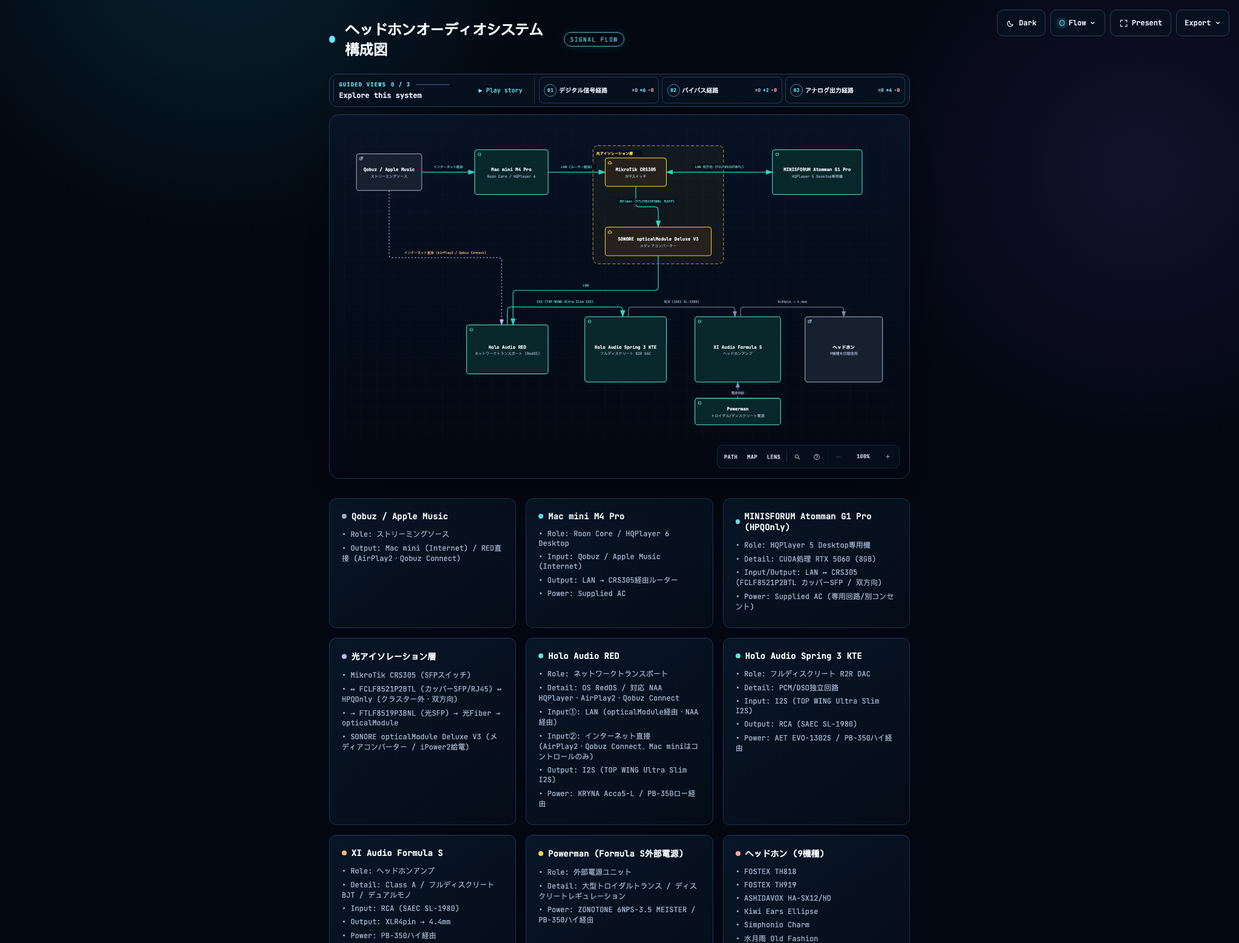
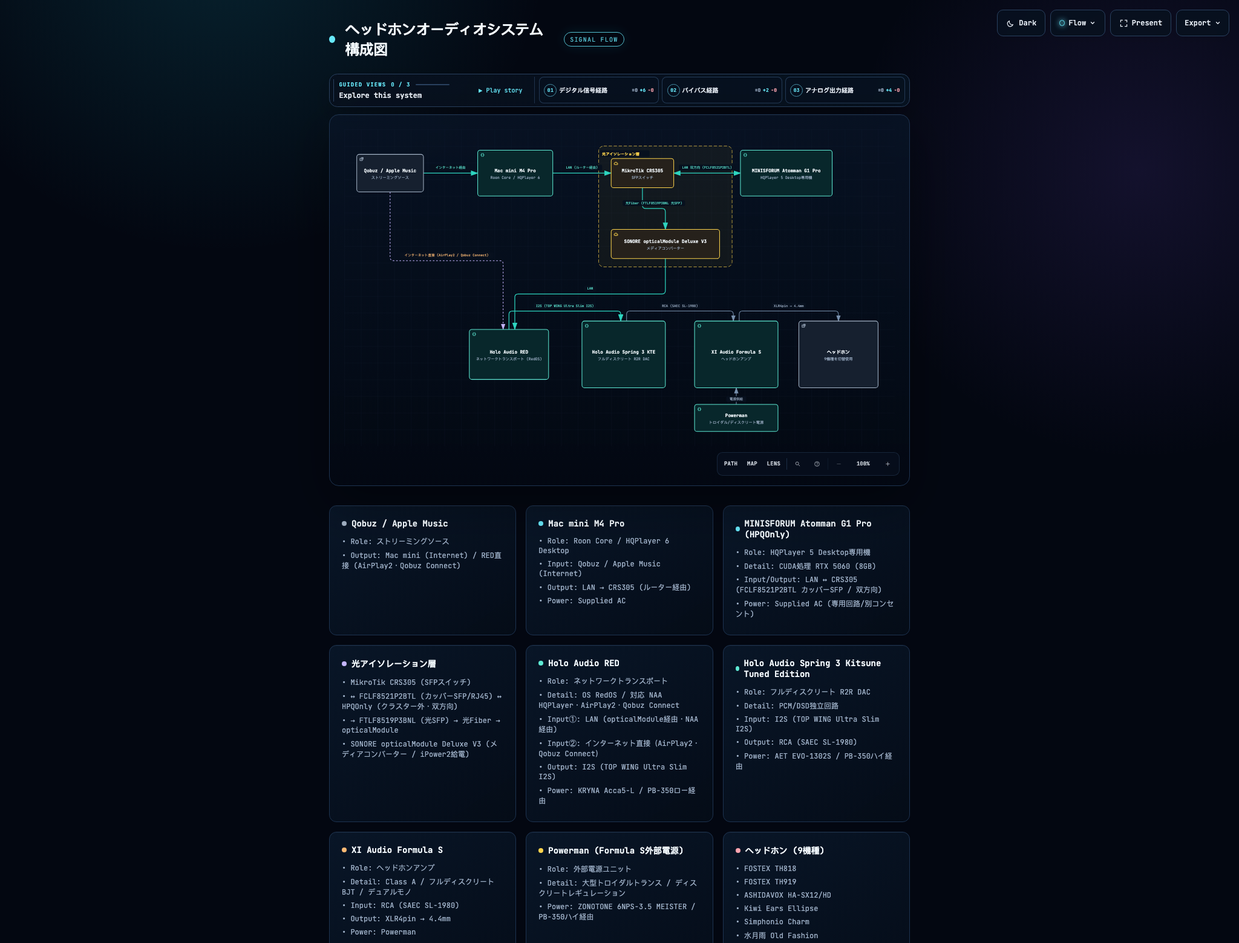
Shorten Spring 3 KTE node label, tidy card text
Node label reverts to "Holo Audio Spring 3 KTE" while the card keeps the
full Kitsune Tuned Edition name; Formula S power now reads "Powerman"
without the PB-350 reference.

diff --git a/index.html b/index.html
@@ -5004,7 +5004,7 @@
     <!-- Main Diagram -->
     <div class="diagram-container" data-detail-level="read"
          data-preset-badge-editorial-plate="ARCHIFY / PLATE 04">
-      <svg viewBox="0 0 1350 760" role="img" lang="en" aria-labelledby="archify-diagram-title archify-diagram-description" data-preset="signal-flow" data-quality-profile="showcase">
+      <svg viewBox="0 0 1320 760" role="img" lang="en" aria-labelledby="archify-diagram-title archify-diagram-description" data-preset="signal-flow" data-quality-profile="showcase">
         <title id="archify-diagram-title">ヘッドホンオーディオシステム構成図</title>
         <desc id="archify-diagram-description">An architecture diagram generated by Archify.</desc>
         <!-- Definitions -->
@@ -5038,14 +5038,14 @@
         <!-- Connection paths (before components for correct z-order) -->
         <path data-edge-from="src" data-edge-to="macmini" data-edge-label="インターネット経由" data-edge-key="0" data-edge-id="src-macmini" data-composition-points="190,105;320,105" d="M 190 105 L 320 105" class="a-emphasis" stroke-width="1.8" marker-end="url(#arrowhead-emphasis)"/>
         <path data-edge-from="macmini" data-edge-to="crs305" data-edge-label="LAN (ルーター経由)" data-edge-key="1" data-edge-id="macmini-crs305" data-composition-points="500,105;640,105" d="M 500 105 L 640 105" class="a-emphasis" stroke-width="1.8" marker-end="url(#arrowhead-emphasis)"/>
-        <path data-edge-from="src" data-edge-to="red" data-edge-label="インターネット直接 (AirPlay2 / Qobuz Connect)" data-edge-key="2" data-edge-id="src-red-bypass" data-composition-points="110,150;110,315;386,315;386,480" d="M 110 150 L 110 307 Q 110 315 118 315 L 378 315 Q 386 315 386 323 L 386 480" class="a-dashed" stroke-width="1.5" marker-end="url(#arrowhead-dashed)"/>
-        <path data-edge-from="crs305" data-edge-to="hpq" data-edge-label="LAN 双方向 (FCLF8521P2BTL)" data-edge-key="3" data-edge-id="crs305-hpq" data-composition-points="790,105;1050,105" d="M 790 105 L 1050 105" class="a-emphasis" stroke-width="1.8" marker-end="url(#arrowhead-emphasis)" marker-start="url(#arrowhead-emphasis-start)"/>
+        <path data-edge-from="src" data-edge-to="red" data-edge-label="インターネット直接 (AirPlay2 / Qobuz Connect)" data-edge-key="2" data-edge-id="src-red-bypass" data-composition-points="110,150;110,315;381,315;381,480" d="M 110 150 L 110 307 Q 110 315 118 315 L 373 315 Q 381 315 381 323 L 381 480" class="a-dashed" stroke-width="1.5" marker-end="url(#arrowhead-dashed)"/>
+        <path data-edge-from="crs305" data-edge-to="hpq" data-edge-label="LAN 双方向 (FCLF8521P2BTL)" data-edge-key="3" data-edge-id="crs305-hpq" data-composition-points="790,105;950,105" d="M 790 105 L 950 105" class="a-emphasis" stroke-width="1.8" marker-end="url(#arrowhead-emphasis)" marker-start="url(#arrowhead-emphasis-start)"/>
         <path data-edge-from="crs305" data-edge-to="optmod" data-edge-label="光Fiber (FTLF8519P3BNL 光SFP)" data-edge-key="4" data-edge-id="crs305-optmod" data-composition-points="715,140;715,190;770,190;770,240" d="M 715 140 L 715 182 Q 715 190 723 190 L 762 190 Q 770 190 770 198 L 770 240" class="a-emphasis" stroke-width="1.8" marker-end="url(#arrowhead-emphasis)"/>
-        <path data-edge-from="optmod" data-edge-to="red" data-edge-label="LAN" data-edge-key="5" data-edge-id="optmod-red" data-composition-points="770,310;770,395;414,395;414,480" d="M 770 310 L 770 387 Q 770 395 762 395 L 422 395 Q 414 395 414 403 L 414 480" class="a-emphasis" stroke-width="1.8" marker-end="url(#arrowhead-emphasis)"/>
-        <path data-edge-from="red" data-edge-to="spring3" data-edge-label="I2S (TOP WING Ultra Slim I2S)" data-edge-key="6" data-edge-id="red-spring3" data-composition-points="400,480;400,436;683,436;683,460" d="M 400 480 L 400 444 Q 400 436 408 436 L 675 436 Q 683 436 683 444 L 683 460" class="a-emphasis" stroke-width="1.8" marker-end="url(#arrowhead-emphasis)"/>
-        <path data-edge-from="spring3" data-edge-to="formulas" data-edge-label="RCA (SAEC SL-1980)" data-edge-key="7" data-edge-id="spring3-formulas" data-composition-points="697,460;697,436;958,436;958,460" d="M 697 460 L 697 444 Q 697 436 705 436 L 950 436 Q 958 436 958 444 L 958 460" class="a-default" stroke-width="1.5" marker-end="url(#arrowhead)"/>
-        <path data-edge-from="powerman" data-edge-to="formulas" data-edge-label="電源供給" data-edge-key="8" data-edge-id="powerman-formulas" data-composition-points="965,660;965,620" d="M 965 660 L 965 620" class="a-default" stroke-width="1.5" marker-end="url(#arrowhead)"/>
-        <path data-edge-from="formulas" data-edge-to="headphones" data-edge-label="XLR4pin → 4.4mm" data-edge-key="9" data-edge-id="formulas-headphones" data-composition-points="972,460;972,436;1225,436;1225,460" d="M 972 460 L 972 444 Q 972 436 980 436 L 1217 436 Q 1225 436 1225 444 L 1225 460" class="a-default" stroke-width="1.5" marker-end="url(#arrowhead)"/>
+        <path data-edge-from="optmod" data-edge-to="red" data-edge-label="LAN" data-edge-key="5" data-edge-id="optmod-red" data-composition-points="770,310;770,395;409,395;409,480" d="M 770 310 L 770 387 Q 770 395 762 395 L 417 395 Q 409 395 409 403 L 409 480" class="a-emphasis" stroke-width="1.8" marker-end="url(#arrowhead-emphasis)"/>
+        <path data-edge-from="red" data-edge-to="spring3" data-edge-label="I2S (TOP WING Ultra Slim I2S)" data-edge-key="6" data-edge-id="red-spring3" data-composition-points="395,480;395,436;663,436;663,460" d="M 395 480 L 395 444 Q 395 436 403 436 L 655 436 Q 663 436 663 444 L 663 460" class="a-emphasis" stroke-width="1.8" marker-end="url(#arrowhead-emphasis)"/>
+        <path data-edge-from="spring3" data-edge-to="formulas" data-edge-label="RCA (SAEC SL-1980)" data-edge-key="7" data-edge-id="spring3-formulas" data-composition-points="677,460;677,436;933,436;933,460" d="M 677 460 L 677 444 Q 677 436 685 436 L 925 436 Q 933 436 933 444 L 933 460" class="a-default" stroke-width="1.5" marker-end="url(#arrowhead)"/>
+        <path data-edge-from="powerman" data-edge-to="formulas" data-edge-label="電源供給" data-edge-key="8" data-edge-id="powerman-formulas" data-composition-points="940,660;940,620" d="M 940 660 L 940 620" class="a-default" stroke-width="1.5" marker-end="url(#arrowhead)"/>
+        <path data-edge-from="formulas" data-edge-to="headphones" data-edge-label="XLR4pin → 4.4mm" data-edge-key="9" data-edge-id="formulas-headphones" data-composition-points="947,460;947,436;1185,436;1185,460" d="M 947 460 L 947 444 Q 947 436 955 436 L 1177 436 Q 1185 436 1185 444 L 1185 460" class="a-default" stroke-width="1.5" marker-end="url(#arrowhead)"/>
 
         <!-- Components -->
         <g id="node-src" data-node-id="src" data-node-label="Qobuz / Apple Music" tabindex="0" role="button" aria-label="Focus Qobuz / Apple Music, ストリーミングソース, Architecture component" aria-pressed="false" data-node-kind="external" data-node-sublabel="ストリーミングソース" data-node-context="Architecture component">
@@ -5074,14 +5074,14 @@
 
         <g id="node-hpq" data-node-id="hpq" data-node-label="MINISFORUM Atomman G1 Pro" tabindex="0" role="button" aria-label="Focus MINISFORUM Atomman G1 Pro, HQPlayer 5 Desktop専用機, Architecture component" aria-pressed="false" data-node-kind="backend" data-node-sublabel="HQPlayer 5 Desktop専用機" data-node-tag="CUDA RTX5060(8GB)/専用AC電源" data-node-context="Architecture component">
           <title>MINISFORUM Atomman G1 Pro · HQPlayer 5 Desktop専用機 · Architecture component · CUDA RTX5060(8GB)/専用AC電源</title>
-          <rect x="1050" y="50" width="220" height="110" rx="6" class="c-mask"/>
-          <rect x="1050" y="50" width="220" height="110" rx="6" class="c-backend" stroke-width="1.5"/>
-          <g aria-hidden="true" data-semantic-sigil="backend" class="semantic-sigil s-backend" transform="translate(1056 56) scale(0.6875)">
+          <rect x="950" y="50" width="220" height="110" rx="6" class="c-mask"/>
+          <rect x="950" y="50" width="220" height="110" rx="6" class="c-backend" stroke-width="1.5"/>
+          <g aria-hidden="true" data-semantic-sigil="backend" class="semantic-sigil s-backend" transform="translate(956 56) scale(0.6875)">
             <path d="M6 3 3 8l3 5M10 3l3 5-3 5"/>
           </g>
-          <text data-node-label="" data-detail-anchor="" x="1160" y="103" class="t-primary" font-size="11" font-weight="600" text-anchor="middle">MINISFORUM Atomman G1 Pro</text>
-        <text data-detail="context" x="1160" y="119" class="t-muted" font-size="9" text-anchor="middle">HQPlayer 5 Desktop専用機</text>
-        <text data-detail="fine" x="1160" y="152" class="t-backend" font-size="7" text-anchor="middle">CUDA RTX5060(8GB)/専用AC電源</text>
+          <text data-node-label="" data-detail-anchor="" x="1060" y="103" class="t-primary" font-size="11" font-weight="600" text-anchor="middle">MINISFORUM Atomman G1 Pro</text>
+        <text data-detail="context" x="1060" y="119" class="t-muted" font-size="9" text-anchor="middle">HQPlayer 5 Desktop専用機</text>
+        <text data-detail="fine" x="1060" y="152" class="t-backend" font-size="7" text-anchor="middle">CUDA RTX5060(8GB)/専用AC電源</text>
         </g>
 
         <g id="node-crs305" data-node-id="crs305" data-node-label="MikroTik CRS305" tabindex="0" role="button" aria-label="Focus MikroTik CRS305, SFPスイッチ, 光アイソレーション層" aria-pressed="false" data-node-kind="cloud" data-node-sublabel="SFPスイッチ" data-node-context="光アイソレーション層">
@@ -5109,62 +5109,62 @@
 
         <g id="node-red" data-node-id="red" data-node-label="Holo Audio RED" tabindex="0" role="button" aria-label="Focus Holo Audio RED, ネットワークトランスポート (RedOS), Architecture component" aria-pressed="false" data-node-kind="backend" data-node-sublabel="ネットワークトランスポート (RedOS)" data-node-tag="NAA/AirPlay2/Qobuz Connect" data-node-context="Architecture component">
           <title>Holo Audio RED · ネットワークトランスポート (RedOS) · Architecture component · NAA/AirPlay2/Qobuz Connect</title>
-          <rect x="300" y="480" width="200" height="120" rx="6" class="c-mask"/>
-          <rect x="300" y="480" width="200" height="120" rx="6" class="c-backend" stroke-width="1.5"/>
+          <rect x="300" y="480" width="190" height="120" rx="6" class="c-mask"/>
+          <rect x="300" y="480" width="190" height="120" rx="6" class="c-backend" stroke-width="1.5"/>
           <g aria-hidden="true" data-semantic-sigil="backend" class="semantic-sigil s-backend" transform="translate(306 486) scale(0.6875)">
             <path d="M6 3 3 8l3 5M10 3l3 5-3 5"/>
           </g>
-          <text data-node-label="" data-detail-anchor="" x="400" y="538" class="t-primary" font-size="11" font-weight="600" text-anchor="middle">Holo Audio RED</text>
-        <text data-detail="context" x="400" y="554" class="t-muted" font-size="9" text-anchor="middle">ネットワークトランスポート (RedOS)</text>
-        <text data-detail="fine" x="400" y="592" class="t-backend" font-size="7" text-anchor="middle">NAA/AirPlay2/Qobuz Connect</text>
+          <text data-node-label="" data-detail-anchor="" x="395" y="538" class="t-primary" font-size="11" font-weight="600" text-anchor="middle">Holo Audio RED</text>
+        <text data-detail="context" x="395" y="554" class="t-muted" font-size="8.9" text-anchor="middle">ネットワークトランスポート (RedOS)</text>
+        <text data-detail="fine" x="395" y="592" class="t-backend" font-size="7" text-anchor="middle">NAA/AirPlay2/Qobuz Connect</text>
         </g>
 
         <g id="node-spring3" data-node-id="spring3" data-node-label="Holo Audio Spring 3 KTE" tabindex="0" role="button" aria-label="Focus Holo Audio Spring 3 KTE, フルディスクリート R2R DAC, Architecture component" aria-pressed="false" data-node-kind="backend" data-node-sublabel="フルディスクリート R2R DAC" data-node-tag="AET EVO-1302S / PB-350 ハイ" data-node-context="Architecture component">
           <title>Holo Audio Spring 3 KTE · フルディスクリート R2R DAC · Architecture component · AET EVO-1302S / PB-350 ハイ</title>
-          <rect x="590" y="460" width="200" height="160" rx="6" class="c-mask"/>
-          <rect x="590" y="460" width="200" height="160" rx="6" class="c-backend" stroke-width="1.5"/>
-          <g aria-hidden="true" data-semantic-sigil="backend" class="semantic-sigil s-backend" transform="translate(596 466) scale(0.6875)">
+          <rect x="570" y="460" width="200" height="160" rx="6" class="c-mask"/>
+          <rect x="570" y="460" width="200" height="160" rx="6" class="c-backend" stroke-width="1.5"/>
+          <g aria-hidden="true" data-semantic-sigil="backend" class="semantic-sigil s-backend" transform="translate(576 466) scale(0.6875)">
             <path d="M6 3 3 8l3 5M10 3l3 5-3 5"/>
           </g>
-          <text data-node-label="" data-detail-anchor="" x="690" y="538" class="t-primary" font-size="11" font-weight="600" text-anchor="middle">Holo Audio Spring 3 KTE</text>
-        <text data-detail="context" x="690" y="554" class="t-muted" font-size="9" text-anchor="middle">フルディスクリート R2R DAC</text>
-        <text data-detail="fine" x="690" y="612" class="t-backend" font-size="7" text-anchor="middle">AET EVO-1302S / PB-350 ハイ</text>
+          <text data-node-label="" data-detail-anchor="" x="670" y="538" class="t-primary" font-size="11" font-weight="600" text-anchor="middle">Holo Audio Spring 3 KTE</text>
+        <text data-detail="context" x="670" y="554" class="t-muted" font-size="9" text-anchor="middle">フルディスクリート R2R DAC</text>
+        <text data-detail="fine" x="670" y="612" class="t-backend" font-size="7" text-anchor="middle">AET EVO-1302S / PB-350 ハイ</text>
         </g>
 
         <g id="node-formulas" data-node-id="formulas" data-node-label="XI Audio Formula S" tabindex="0" role="button" aria-label="Focus XI Audio Formula S, ヘッドホンアンプ, Architecture component" aria-pressed="false" data-node-kind="backend" data-node-sublabel="ヘッドホンアンプ" data-node-tag="Class A・BJT・デュアルモノ" data-node-context="Architecture component">
           <title>XI Audio Formula S · ヘッドホンアンプ · Architecture component · Class A・BJT・デュアルモノ</title>
-          <rect x="860" y="460" width="210" height="160" rx="6" class="c-mask"/>
-          <rect x="860" y="460" width="210" height="160" rx="6" class="c-backend" stroke-width="1.5"/>
-          <g aria-hidden="true" data-semantic-sigil="backend" class="semantic-sigil s-backend" transform="translate(866 466) scale(0.6875)">
+          <rect x="840" y="460" width="200" height="160" rx="6" class="c-mask"/>
+          <rect x="840" y="460" width="200" height="160" rx="6" class="c-backend" stroke-width="1.5"/>
+          <g aria-hidden="true" data-semantic-sigil="backend" class="semantic-sigil s-backend" transform="translate(846 466) scale(0.6875)">
             <path d="M6 3 3 8l3 5M10 3l3 5-3 5"/>
           </g>
-          <text data-node-label="" data-detail-anchor="" x="965" y="538" class="t-primary" font-size="11" font-weight="600" text-anchor="middle">XI Audio Formula S</text>
-        <text data-detail="context" x="965" y="554" class="t-muted" font-size="9" text-anchor="middle">ヘッドホンアンプ</text>
-        <text data-detail="fine" x="965" y="612" class="t-backend" font-size="7" text-anchor="middle">Class A・BJT・デュアルモノ</text>
+          <text data-node-label="" data-detail-anchor="" x="940" y="538" class="t-primary" font-size="11" font-weight="600" text-anchor="middle">XI Audio Formula S</text>
+        <text data-detail="context" x="940" y="554" class="t-muted" font-size="9" text-anchor="middle">ヘッドホンアンプ</text>
+        <text data-detail="fine" x="940" y="612" class="t-backend" font-size="7" text-anchor="middle">Class A・BJT・デュアルモノ</text>
         </g>
 
         <g id="node-powerman" data-node-id="powerman" data-node-label="Powerman" tabindex="0" role="button" aria-label="Focus Powerman, トロイダル/ディスクリート電源, Architecture component" aria-pressed="false" data-node-kind="backend" data-node-sublabel="トロイダル/ディスクリート電源" data-node-tag="ZONOTONE 6NPS-3.5 MEISTER" data-node-context="Architecture component">
           <title>Powerman · トロイダル/ディスクリート電源 · Architecture component · ZONOTONE 6NPS-3.5 MEISTER</title>
-          <rect x="860" y="660" width="210" height="65" rx="6" class="c-mask"/>
-          <rect x="860" y="660" width="210" height="65" rx="6" class="c-backend" stroke-width="1.5"/>
-          <g aria-hidden="true" data-semantic-sigil="backend" class="semantic-sigil s-backend" transform="translate(866 666) scale(0.6875)">
+          <rect x="840" y="660" width="200" height="65" rx="6" class="c-mask"/>
+          <rect x="840" y="660" width="200" height="65" rx="6" class="c-backend" stroke-width="1.5"/>
+          <g aria-hidden="true" data-semantic-sigil="backend" class="semantic-sigil s-backend" transform="translate(846 666) scale(0.6875)">
             <path d="M6 3 3 8l3 5M10 3l3 5-3 5"/>
           </g>
-          <text data-node-label="" data-detail-anchor="" x="965" y="690.5" class="t-primary" font-size="11" font-weight="600" text-anchor="middle">Powerman</text>
-        <text data-detail="context" x="965" y="706.5" class="t-muted" font-size="9" text-anchor="middle">トロイダル/ディスクリート電源</text>
-        <text data-detail="fine" x="965" y="717" class="t-backend" font-size="7" text-anchor="middle">ZONOTONE 6NPS-3.5 MEISTER</text>
+          <text data-node-label="" data-detail-anchor="" x="940" y="690.5" class="t-primary" font-size="11" font-weight="600" text-anchor="middle">Powerman</text>
+        <text data-detail="context" x="940" y="706.5" class="t-muted" font-size="9" text-anchor="middle">トロイダル/ディスクリート電源</text>
+        <text data-detail="fine" x="940" y="717" class="t-backend" font-size="7" text-anchor="middle">ZONOTONE 6NPS-3.5 MEISTER</text>
         </g>
 
         <g id="node-headphones" data-node-id="headphones" data-node-label="ヘッドホン" tabindex="0" role="button" aria-label="Focus ヘッドホン, 9機種を切替使用, Architecture component" aria-pressed="false" data-node-kind="external" data-node-sublabel="9機種を切替使用" data-node-context="Architecture component">
           <title>ヘッドホン · 9機種を切替使用 · Architecture component</title>
-          <rect x="1130" y="460" width="190" height="160" rx="6" class="c-mask"/>
-          <rect x="1130" y="460" width="190" height="160" rx="6" class="c-external" stroke-width="1.5"/>
-          <g aria-hidden="true" data-semantic-sigil="external" class="semantic-sigil s-external" transform="translate(1136 466) scale(0.6875)">
+          <rect x="1090" y="460" width="190" height="160" rx="6" class="c-mask"/>
+          <rect x="1090" y="460" width="190" height="160" rx="6" class="c-external" stroke-width="1.5"/>
+          <g aria-hidden="true" data-semantic-sigil="external" class="semantic-sigil s-external" transform="translate(1096 466) scale(0.6875)">
             <rect x="2.5" y="5" width="8.5" height="8" rx="1.5"/>
             <path d="M8 2.5h5.5V8M13.5 2.5 7.5 8.5"/>
           </g>
-          <text data-node-label="" data-detail-anchor="" x="1225" y="538" class="t-primary" font-size="11" font-weight="600" text-anchor="middle">ヘッドホン</text>
-        <text data-detail="context" x="1225" y="554" class="t-muted" font-size="9" text-anchor="middle">9機種を切替使用</text>
+          <text data-node-label="" data-detail-anchor="" x="1185" y="538" class="t-primary" font-size="11" font-weight="600" text-anchor="middle">ヘッドホン</text>
+        <text data-detail="context" x="1185" y="554" class="t-muted" font-size="9" text-anchor="middle">9機種を切替使用</text>
         </g>
 
         <!-- Connection labels -->
@@ -5177,36 +5177,36 @@
           <text x="570" y="95" class="t-backend" font-size="8" text-anchor="middle">LAN (ルーター経由)</text>
         </g>
         <g data-detail="context" data-edge-from="src" data-edge-to="red" data-edge-label="インターネット直接 (AirPlay2 / Qobuz Connect)" data-edge-key="2" data-edge-id="src-red-bypass">
-          <rect x="135" y="295" width="226" height="14" rx="3" class="c-mask"/>
-          <text x="248" y="305" class="t-messagebus" font-size="8" text-anchor="middle">インターネット直接 (AirPlay2 / Qobuz Connect)</text>
+          <rect x="132.5" y="295" width="226" height="14" rx="3" class="c-mask"/>
+          <text x="245.5" y="305" class="t-messagebus" font-size="8" text-anchor="middle">インターネット直接 (AirPlay2 / Qobuz Connect)</text>
         </g>
         <g data-detail="context" data-edge-from="crs305" data-edge-to="hpq" data-edge-label="LAN 双方向 (FCLF8521P2BTL)" data-edge-key="3" data-edge-id="crs305-hpq">
-          <rect x="852.6" y="85" width="134.8" height="14" rx="3" class="c-mask"/>
-          <text x="920" y="95" class="t-backend" font-size="8" text-anchor="middle">LAN 双方向 (FCLF8521P2BTL)</text>
+          <rect x="802.6" y="85" width="134.8" height="14" rx="3" class="c-mask"/>
+          <text x="870" y="95" class="t-backend" font-size="8" text-anchor="middle">LAN 双方向 (FCLF8521P2BTL)</text>
         </g>
         <g data-detail="context" data-edge-from="crs305" data-edge-to="optmod" data-edge-label="光Fiber (FTLF8519P3BNL 光SFP)" data-edge-key="4" data-edge-id="crs305-optmod">
           <rect x="667.9" y="170" width="149.2" height="14" rx="3" class="c-mask"/>
           <text x="742.5" y="180" class="t-backend" font-size="8" text-anchor="middle">光Fiber (FTLF8519P3BNL 光SFP)</text>
         </g>
         <g data-detail="context" data-edge-from="optmod" data-edge-to="red" data-edge-label="LAN" data-edge-key="5" data-edge-id="optmod-red">
-          <rect x="577" y="375" width="30" height="14" rx="3" class="c-mask"/>
-          <text x="592" y="385" class="t-backend" font-size="8" text-anchor="middle">LAN</text>
+          <rect x="574.5" y="375" width="30" height="14" rx="3" class="c-mask"/>
+          <text x="589.5" y="385" class="t-backend" font-size="8" text-anchor="middle">LAN</text>
         </g>
         <g data-detail="context" data-edge-from="red" data-edge-to="spring3" data-edge-label="I2S (TOP WING Ultra Slim I2S)" data-edge-key="6" data-edge-id="red-spring3">
-          <rect x="466.9" y="416" width="149.2" height="14" rx="3" class="c-mask"/>
-          <text x="541.5" y="426" class="t-backend" font-size="8" text-anchor="middle">I2S (TOP WING Ultra Slim I2S)</text>
+          <rect x="454.4" y="416" width="149.2" height="14" rx="3" class="c-mask"/>
+          <text x="529" y="426" class="t-backend" font-size="8" text-anchor="middle">I2S (TOP WING Ultra Slim I2S)</text>
         </g>
         <g data-detail="context" data-edge-from="spring3" data-edge-to="formulas" data-edge-label="RCA (SAEC SL-1980)" data-edge-key="7" data-edge-id="spring3-formulas">
-          <rect x="779.3" y="416" width="96.39999999999999" height="14" rx="3" class="c-mask"/>
-          <text x="827.5" y="426" class="t-muted" font-size="8" text-anchor="middle">RCA (SAEC SL-1980)</text>
+          <rect x="756.8" y="416" width="96.39999999999999" height="14" rx="3" class="c-mask"/>
+          <text x="805" y="426" class="t-muted" font-size="8" text-anchor="middle">RCA (SAEC SL-1980)</text>
         </g>
         <g data-detail="context" data-edge-from="powerman" data-edge-to="formulas" data-edge-label="電源供給" data-edge-key="8" data-edge-id="powerman-formulas">
-          <rect x="940.8" y="640" width="48.4" height="14" rx="3" class="c-mask"/>
-          <text x="965" y="650" class="t-muted" font-size="8" text-anchor="middle">電源供給</text>
+          <rect x="915.8" y="640" width="48.4" height="14" rx="3" class="c-mask"/>
+          <text x="940" y="650" class="t-muted" font-size="8" text-anchor="middle">電源供給</text>
         </g>
         <g data-detail="context" data-edge-from="formulas" data-edge-to="headphones" data-edge-label="XLR4pin → 4.4mm" data-edge-key="9" data-edge-id="formulas-headphones">
-          <rect x="1057.5" y="416" width="82" height="14" rx="3" class="c-mask"/>
-          <text x="1098.5" y="426" class="t-muted" font-size="8" text-anchor="middle">XLR4pin → 4.4mm</text>
+          <rect x="1025" y="416" width="82" height="14" rx="3" class="c-mask"/>
+          <text x="1066" y="426" class="t-muted" font-size="8" text-anchor="middle">XLR4pin → 4.4mm</text>
         </g>
 
         <!-- Boundary labels (foreground masks keep routes out of titles) -->
@@ -5422,7 +5422,7 @@
         <ul>
           <li>&bull; Role: Roon Core / HQPlayer 6 Desktop</li>
           <li>&bull; Input: Qobuz / Apple Music (Internet)</li>
-          <li>&bull; Output: LAN → CRS305経由ルーター</li>
+          <li>&bull; Output: LAN → CRS305 (ルーター経由)</li>
           <li>&bull; Power: Supplied AC</li>
         </ul>
       </div>
@@ -5462,7 +5462,7 @@
           <li>&bull; Role: ネットワークトランスポート</li>
           <li>&bull; Detail: OS RedOS / 対応 NAA HQPlayer・AirPlay2・Qobuz Connect</li>
           <li>&bull; Input①: LAN (opticalModule経由・NAA経由)</li>
-          <li>&bull; Input②: インターネット直接 (AirPlay2・Qobuz Connect、Mac miniはコントロールのみ)</li>
+          <li>&bull; Input②: インターネット直接（AirPlay2・Qobuz Connect）</li>
           <li>&bull; Output: I2S (TOP WING Ultra Slim I2S)</li>
           <li>&bull; Power: KRYNA Acca5-L / PB-350ロー経由</li>
         </ul>
@@ -5471,7 +5471,7 @@
       <div class="card">
         <div class="card-header">
           <div class="card-dot emerald"></div>
-          <h3>Holo Audio Spring 3 KTE</h3>
+          <h3>Holo Audio Spring 3 Kitsune Tuned Edition</h3>
         </div>
         <ul>
           <li>&bull; Role: フルディスクリート R2R DAC</li>
@@ -5492,7 +5492,7 @@
           <li>&bull; Detail: Class A / フルディスクリートBJT / デュアルモノ</li>
           <li>&bull; Input: RCA (SAEC SL-1980)</li>
           <li>&bull; Output: XLR4pin → 4.4mm</li>
-          <li>&bull; Power: PB-350ハイ経由</li>
+          <li>&bull; Power: Powerman</li>
         </ul>
       </div>
 
